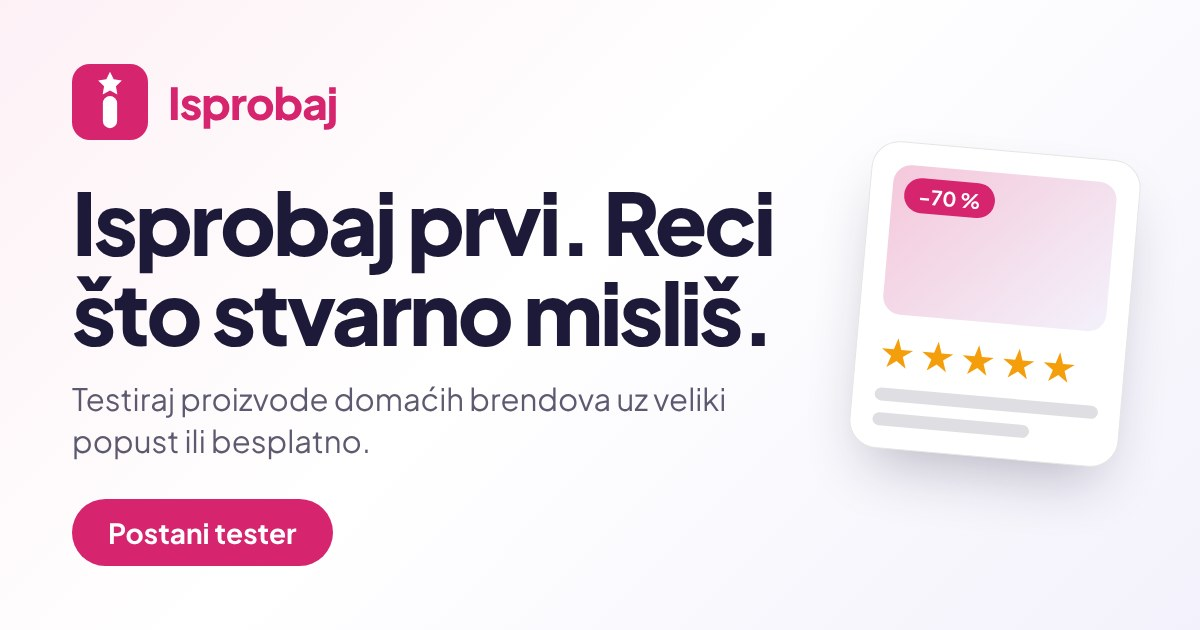
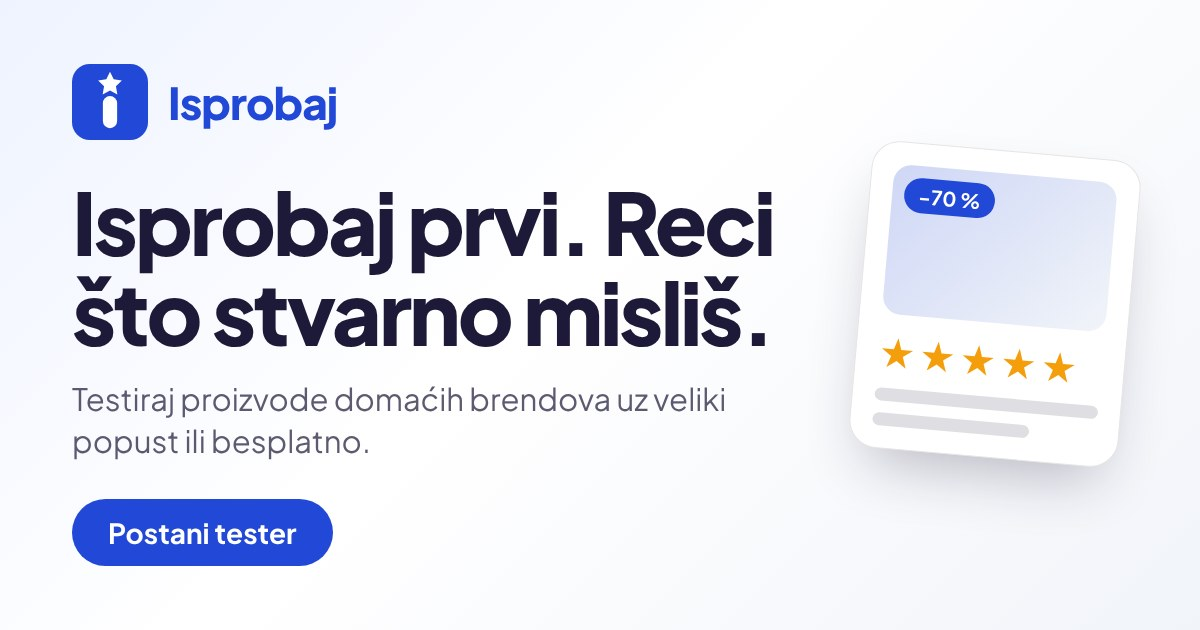
Plava paleta umjesto maline, neutralniji primjeri; kuponi: jedan kod za sve kao zadani izbor
Claude-Session: https://claude.ai/code/session_01UJEQZB1HhwHBpUq89R7Tg5

Changed region(s): [[0.0617, 0.7841, 0.2775, 0.9048], [0.0617, 0.0905, 0.2775, 0.2413], [0.74, 0.2413, 0.8633, 0.4825]]

diff --git a/lib/i18n/hr.ts b/lib/i18n/hr.ts
@@ -46,14 +46,14 @@ export const hr = {
     exampleOffersTitle: "Ovako izgledaju ponude",
     exampleOffersNote: "Ovo su primjeri za prikaz. Prve prave ponude stižu uskoro; registriraj se i javit ćemo ti.",
     exampleOffers: [
-      { name: "Prirodna krema za ruke", brand: "Primjer brenda", price: 14.9, discount: 70 },
+      { name: "Bežične slušalice", brand: "Primjer brenda", price: 39.9, discount: 70 },
       { name: "Pamučna majica s printom", brand: "Primjer brenda", price: 24.9, discount: 60 },
       { name: "Domaći namaz od lješnjaka", brand: "Primjer brenda", price: 8.5, discount: 100 },
     ],
     exampleReviewsTitle: "Ovako izgleda recenzija testera",
     exampleReviewsNote: "Ovo su primjeri za prikaz, a ne stvarne recenzije. Ovdje će se prikazivati recenzije pravih testera čim budu objavljene.",
     exampleReviews: [
-      { rating: 5, product: "Krema za ruke", title: "Upija se za minutu", body: "Koristim je dva tjedna svaku večer. Ne ostavlja mastan trag, a miris je blag. Tuba je mala, pa se brzo potroši." },
+      { rating: 5, product: "Bežične slušalice", title: "Baterija drži cijeli dan", body: "Nosim ih dva tjedna na posao i u teretanu. Dobro sjede i ne ispadaju, a baterija izdrži cijeli dan. Kutijica se lako ogrebe." },
       { rating: 4, product: "Pamučna majica", title: "Dobar kroj, print drži", body: "Nakon tri pranja print je isti. Kroj je nešto uži od očekivanog, pa bih idući put uzeo broj veću." },
       { rating: 3, product: "Namaz od lješnjaka", title: "Fin, ali presladak za mene", body: "Okus lješnjaka je izražen i tekstura je kremasta. Meni je ipak presladak, a staklenka je manja nego na slici." },
     ],
@@ -387,10 +387,10 @@ export const hr = {
       modeCoupon: "Kupuje sam uz kupon",
       modeShips: "Mi šaljemo proizvod",
       couponMode: "Vrsta kupona",
-      couponUnique: "Jedinstveni kod po testeru (preporučeno)",
-      couponShared: "Jedan zajednički kod",
+      couponShared: "Jedan kod za sve testere (najjednostavnije)",
+      couponUnique: "Poseban kod za svakog testera",
       shared_coupon_code: "Zajednički kod kupona",
-      couponHint: "Kupon se odnosi samo na kampanje u kojima tester kupuje sam. Jedinstvene kodove uvozite nakon spremanja.",
+      couponHint: "Jedan kod: izradite ga u svom webshopu i ograničite broj korištenja na broj mjesta. Posebni kodovi: sigurnije od dijeljenja, ali morate izraditi po jedan kod za svako mjesto i uvesti ih nakon spremanja. Kuponi vrijede samo kad tester kupuje sam.",
       description: "Opis proizvoda",
       purchase_instructions: "Upute: gdje i kako kupiti ili što tester treba znati",
       requirements: "Što očekujete u recenziji (neobavezno)",
@@ -412,7 +412,8 @@ export const hr = {
       resume: "Nastavi",
       published: "Kampanja je objavljena.",
       publicLink: "Javna stranica kampanje",
-      sharedCoupon: "Koristi se jedan zajednički kod kupona.",
+      sharedCoupon: "Svi testeri dobivaju isti kod kupona. U svom webshopu ograničite broj korištenja na broj mjesta.",
+      switchToShared: "Imate jedan kod za sve testere? Otvorite Uredi kampanju niže na stranici i pod Vrsta kupona odaberite Jedan kod za sve testere.",
       noCoupons: "Ova kampanja ne koristi kupone: proizvod šaljete testerima.",
       editTitle: "Uredi kampanju",
       editSave: "Spremi izmjene",

diff --git a/app/(brand)/dashboard/kampanje/[id]/page.tsx b/app/(brand)/dashboard/kampanje/[id]/page.tsx
@@ -72,6 +72,7 @@ export default async function CampaignDetailPage({ params, searchParams }: PageP
           <>
             <p className="mt-2 text-sm text-stone-600">{d.couponsCount(free, total)}</p>
             {missing > 0 && <p className="mt-1 text-sm font-medium text-amber-800">{d.couponsNeeded(missing)}</p>}
+            {c.status === "draft" && <p className="mt-2 rounded-lg bg-tint-2 p-3 text-sm text-ink/80">{d.switchToShared}</p>}
             <form action={importCoupons} className="mt-4 space-y-3">
               <input type="hidden" name="campaign_id" value={c.id} />
               <label className="label" htmlFor="codes">{d.importLabel}</label>
@@ -161,8 +162,8 @@ export default async function CampaignDetailPage({ params, searchParams }: PageP
                 <fieldset>
                   <legend className="label">{f.couponMode}</legend>
                   <div className="space-y-2 text-sm">
-                    <label className="flex items-center gap-2"><input type="radio" name="coupon_mode" value="unique" defaultChecked={c.coupon_mode === "unique"} /> {f.couponUnique}</label>
                     <label className="flex items-center gap-2"><input type="radio" name="coupon_mode" value="shared" defaultChecked={c.coupon_mode === "shared"} /> {f.couponShared}</label>
+                    <label className="flex items-center gap-2"><input type="radio" name="coupon_mode" value="unique" defaultChecked={c.coupon_mode === "unique"} /> {f.couponUnique}</label>
                   </div>
                 </fieldset>
               </>
@@ -171,7 +172,7 @@ export default async function CampaignDetailPage({ params, searchParams }: PageP
             )}
             {c.fulfillment_mode === "coupon_purchase" && (c.coupon_mode === "shared" || c.status === "draft") && (
               <div>
-                <label className="label" htmlFor="e-shared_coupon_code">{d.newSharedCode}</label>
+                <label className="label" htmlFor="e-shared_coupon_code">{c.coupon_mode === "shared" ? d.newSharedCode : f.shared_coupon_code}</label>
                 <input className="input" id="e-shared_coupon_code" name="shared_coupon_code" maxLength={64} />
               </div>
             )}

diff --git a/app/(brand)/dashboard/kampanje/nova/page.tsx b/app/(brand)/dashboard/kampanje/nova/page.tsx
@@ -70,8 +70,8 @@ export default async function NewCampaignPage({ searchParams }: PageProps<"/dash
         <fieldset className="rounded-lg border border-stone-200 p-4">
           <legend className="label px-1">{f.couponMode}</legend>
           <div className="space-y-2 text-sm">
-            <label className="flex items-center gap-2"><input type="radio" name="coupon_mode" value="unique" defaultChecked /> {f.couponUnique}</label>
-            <label className="flex items-center gap-2"><input type="radio" name="coupon_mode" value="shared" /> {f.couponShared}</label>
+            <label className="flex items-center gap-2"><input type="radio" name="coupon_mode" value="shared" defaultChecked /> {f.couponShared}</label>
+            <label className="flex items-center gap-2"><input type="radio" name="coupon_mode" value="unique" /> {f.couponUnique}</label>
           </div>
           <label className="label mt-3" htmlFor="shared_coupon_code">{f.shared_coupon_code}</label>
           <input className="input" id="shared_coupon_code" name="shared_coupon_code" maxLength={64} />

diff --git a/app/page.tsx b/app/page.tsx
@@ -189,7 +189,7 @@ export default async function LandingPage() {
         <section id="za-brendove" className="scroll-mt-20 px-4 py-10">
           <div className="mx-auto grid max-w-6xl gap-8 rounded-[2rem] bg-ink px-6 py-12 text-white sm:px-12 lg:grid-cols-2 lg:items-center">
             <div>
-              <p className="text-xs font-bold tracking-widest text-pink-300 uppercase">{l.brandEyebrow}</p>
+              <p className="text-xs font-bold tracking-widest text-sky-300 uppercase">{l.brandEyebrow}</p>
               <h2 className="section-title mt-2">{l.brandTitle}</h2>
               <p className="mt-4 max-w-md text-white/75">{l.brandText}</p>
               <Link href="/registracija?uloga=brand" className="btn-light mt-7 px-8">{l.ctaBrand}</Link>

diff --git a/app/globals.css b/app/globals.css
@@ -3,11 +3,11 @@
 
 @theme inline {
   --font-sans: "Plus Jakarta Sans Variable", ui-sans-serif, system-ui, -apple-system, "Segoe UI", sans-serif;
-  --color-brand: #d6246e;
-  --color-brand-dark: #b0185a;
+  --color-brand: #2148d6;
+  --color-brand-dark: #1a39ad;
   --color-ink: #1d1a39;
-  --color-tint: #fdf1f6;
-  --color-tint-2: #f3f1fb;
+  --color-tint: #eef3ff;
+  --color-tint-2: #f1f4f9;
 }
 
 body {
